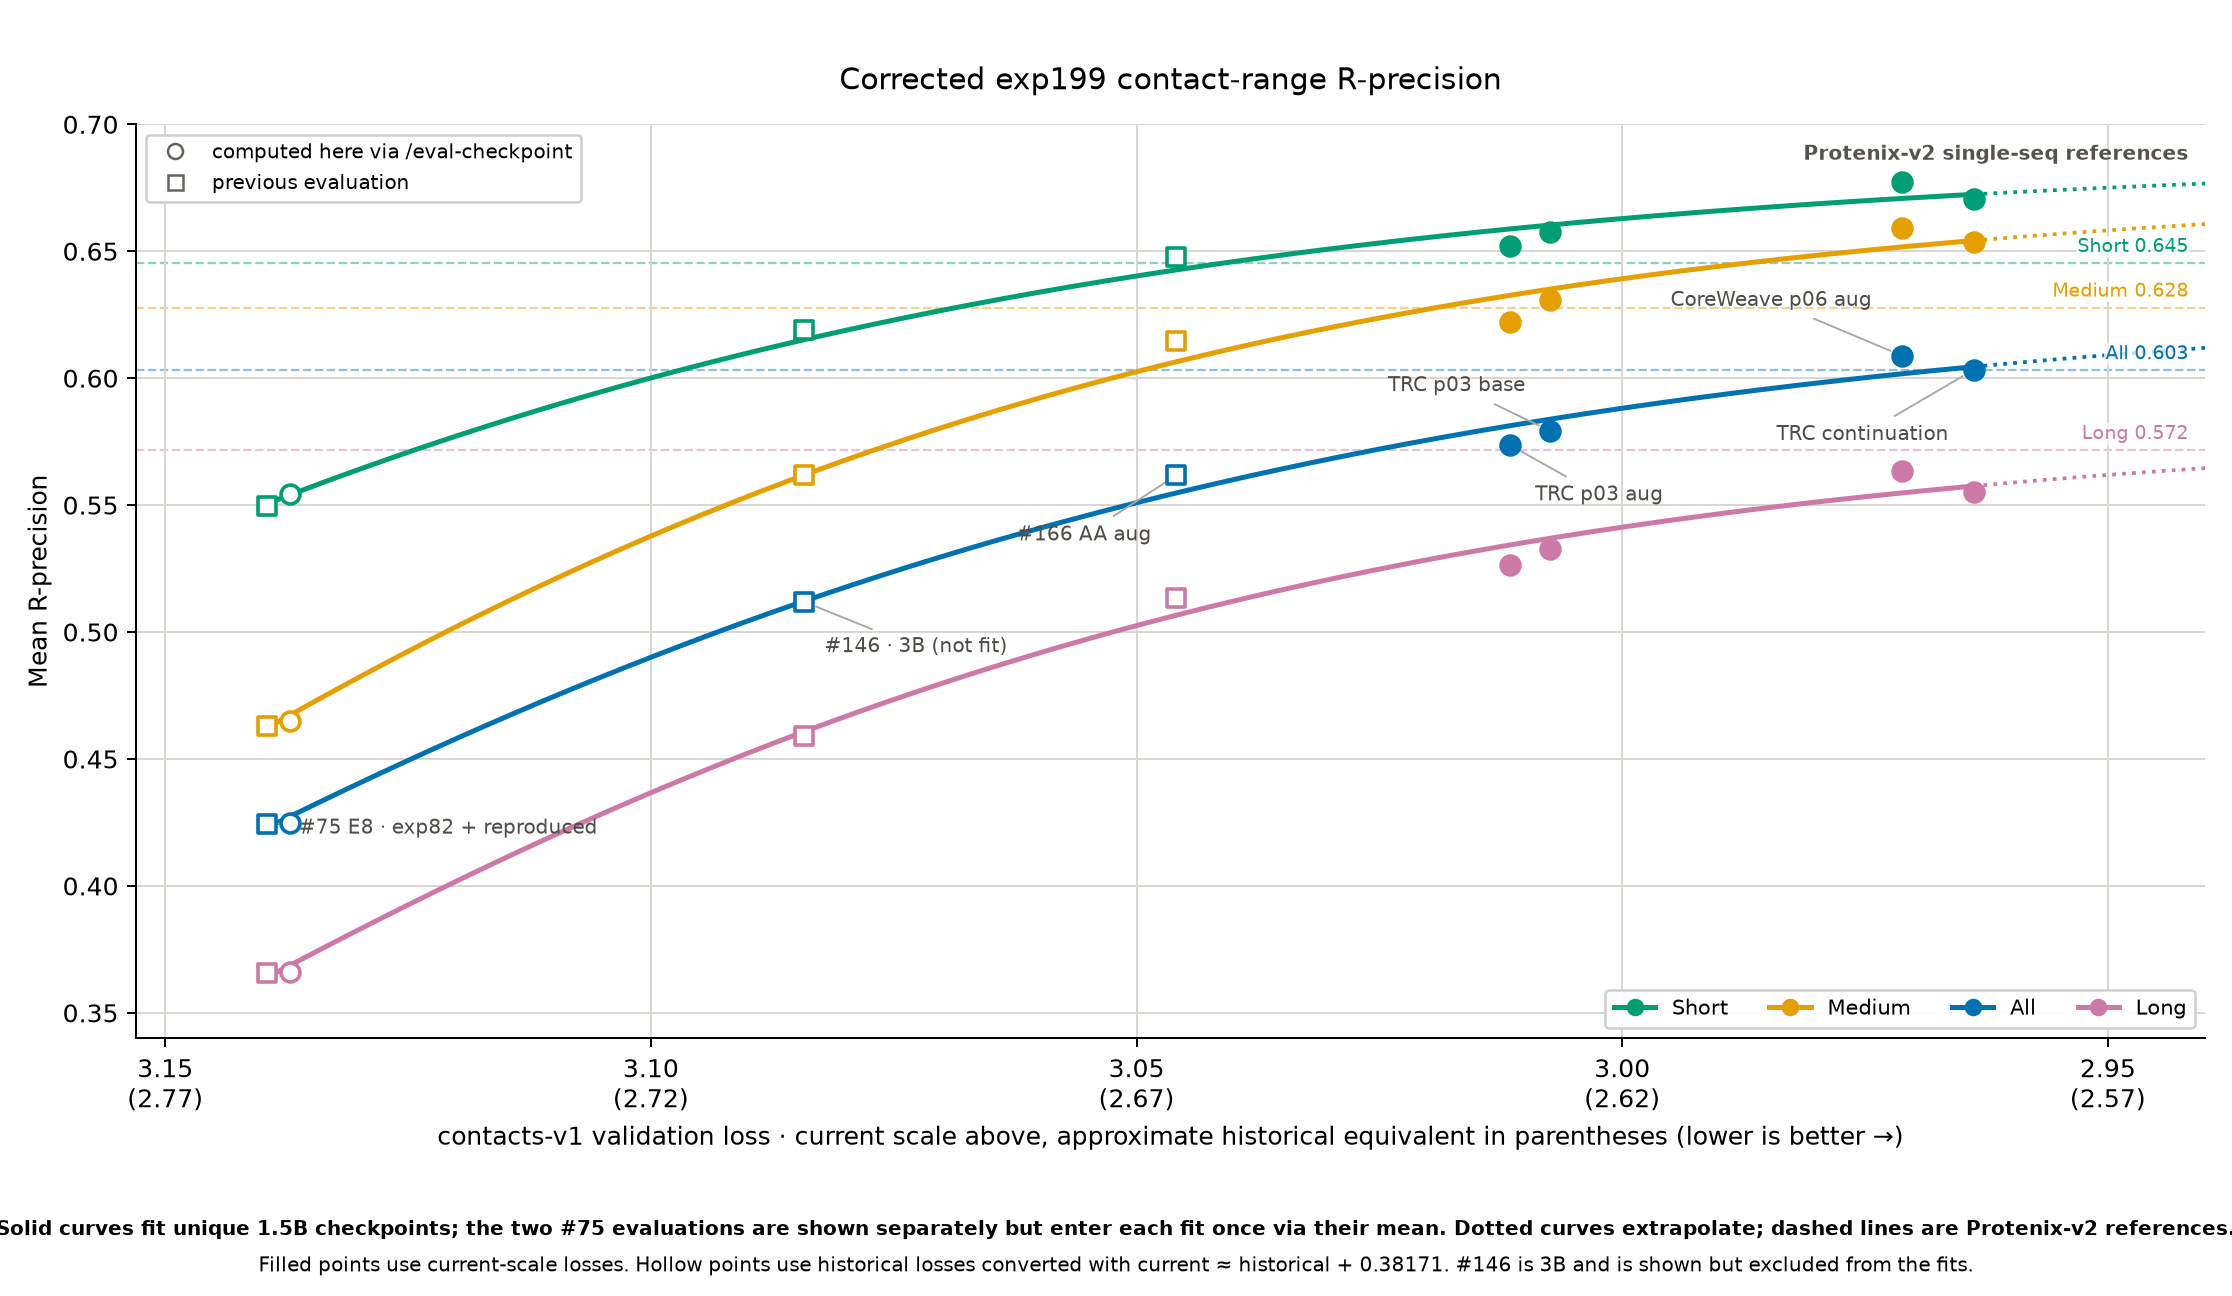
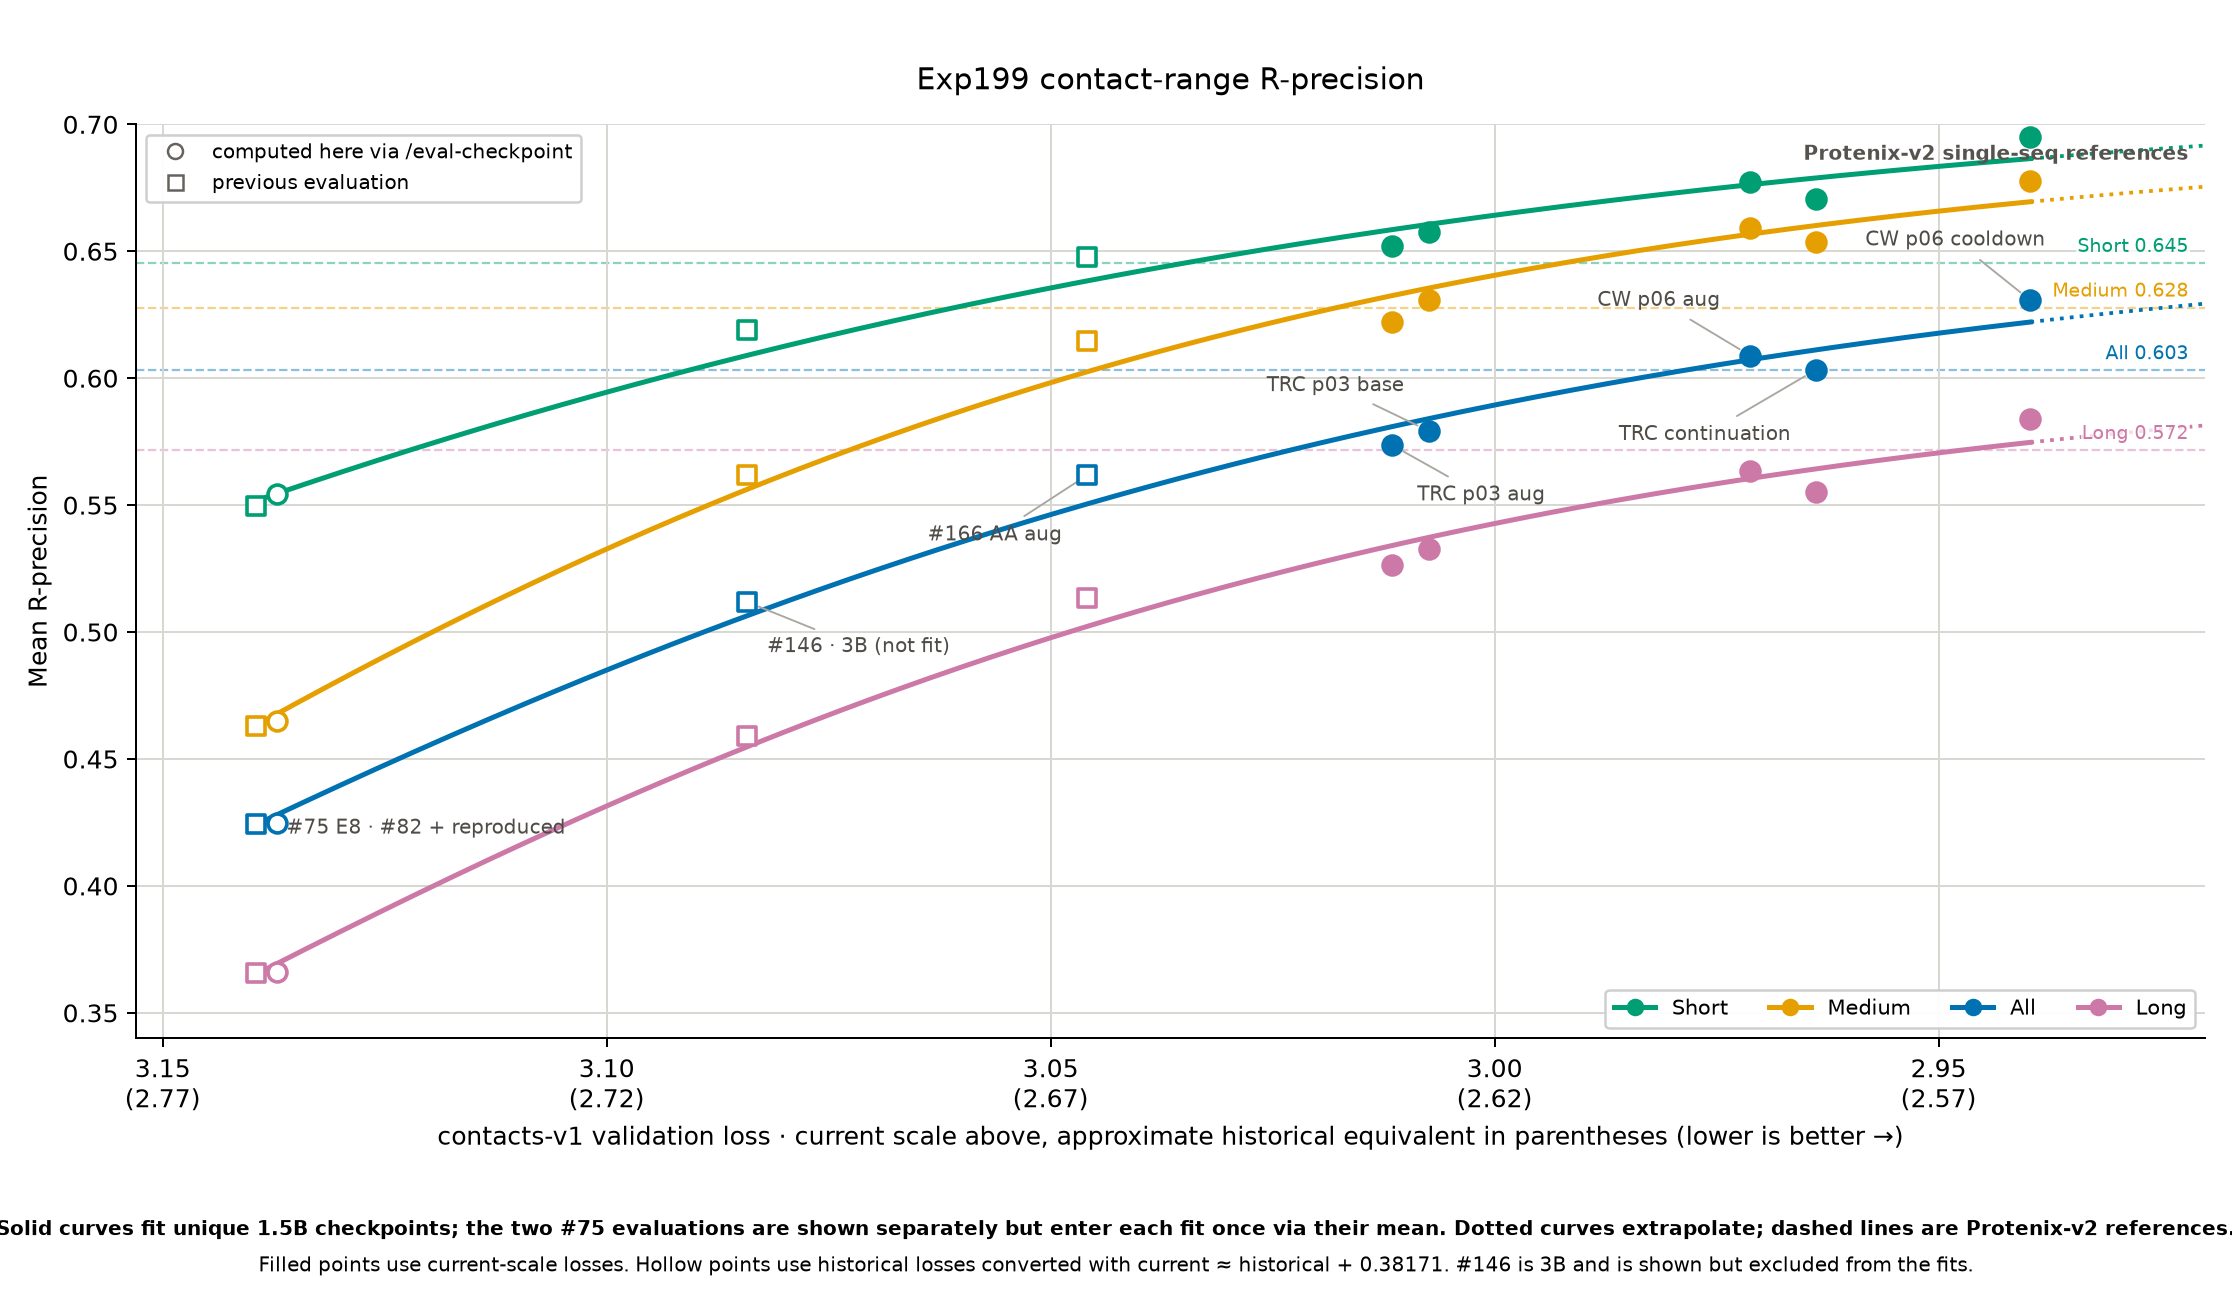
exp199: add cooldown to contact-range figure

diff --git a/experiments/exp199_optimize_contacts_v1_afdb_esm/evals/rollout_v2/plot_pr_comparison.py b/experiments/exp199_optimize_contacts_v1_afdb_esm/evals/rollout_v2/plot_pr_comparison.py
@@ -64,13 +64,14 @@ EXPECTED_PROTENIX = {
     "long": (0.571710332452209, 553),
 }
 ANNOTATIONS = {
-    "exp75": ((8, -2), "left", "#75 E8 · exp82 + reproduced"),
+    "exp75": ((8, -2), "left", "#75 E8 · #82 + reproduced"),
     "exp146": ((8, -18), "left", "#146 · 3B (not fit)"),
     "exp166": ((-10, -24), "right", "#166 AA aug"),
     "trc-p03-aug": ((10, -20), "left", "TRC p03 aug"),
     "trc-p03-base": ((-10, 18), "right", "TRC p03 base"),
-    "cw-p06-aug": ((-12, 22), "right", "CoreWeave p06 aug"),
+    "cw-p06-aug": ((-12, 22), "right", "CW p06 aug"),
     "trc-cont": ((-10, -26), "right", "TRC continuation"),
+    "cw-p06-cool": ((6, 24), "right", "CW p06 cooldown"),
 }
 
 
@@ -250,6 +251,7 @@ def plot_points(axis: plt.Axes, table: pd.DataFrame) -> None:
         "trc-p03-base": table.loc[table.key == "trc-p03-base"].iloc[0],
         "cw-p06-aug": table.loc[table.key == "cw-p06-aug"].iloc[0],
         "trc-cont": table.loc[table.key == "trc-cont"].iloc[0],
+        "cw-p06-cool": table.loc[table.key == "cw-p06-cool"].iloc[0],
     }
     for key, row in annotation_rows.items():
         offset, alignment, label = ANNOTATIONS[key]
@@ -293,7 +295,7 @@ def plot_figure(
             float(fit["minimum_observed_loss"]),
             240,
         )
-        extrapolated = np.linspace(float(fit["minimum_observed_loss"]), 2.94, 80)
+        extrapolated = np.linspace(float(fit["minimum_observed_loss"]), 2.92, 80)
         axis.plot(
             observed,
             sigmoid(observed, *parameters),
@@ -318,14 +320,14 @@ def plot_figure(
         loss_ticks,
         [f"{current:.2f}\n({current - LOSS_OFFSET:.2f})" for current in loss_ticks],
     )
-    axis.set_xlim(3.153, 2.94)
+    axis.set_xlim(3.153, 2.92)
     axis.set_ylim(0.34, 0.70)
     axis.set_xlabel(
         "contacts-v1 validation loss · current scale above, approximate historical "
         "equivalent in parentheses (lower is better →)"
     )
     axis.set_ylabel("Mean R-precision")
-    axis.set_title("Corrected exp199 contact-range R-precision", pad=14)
+    axis.set_title("Exp199 contact-range R-precision", pad=14)
     axis.grid(color="#d8d7d2", linewidth=0.8)
     axis.set_axisbelow(True)
     axis.spines[["top", "right"]].set_visible(False)
